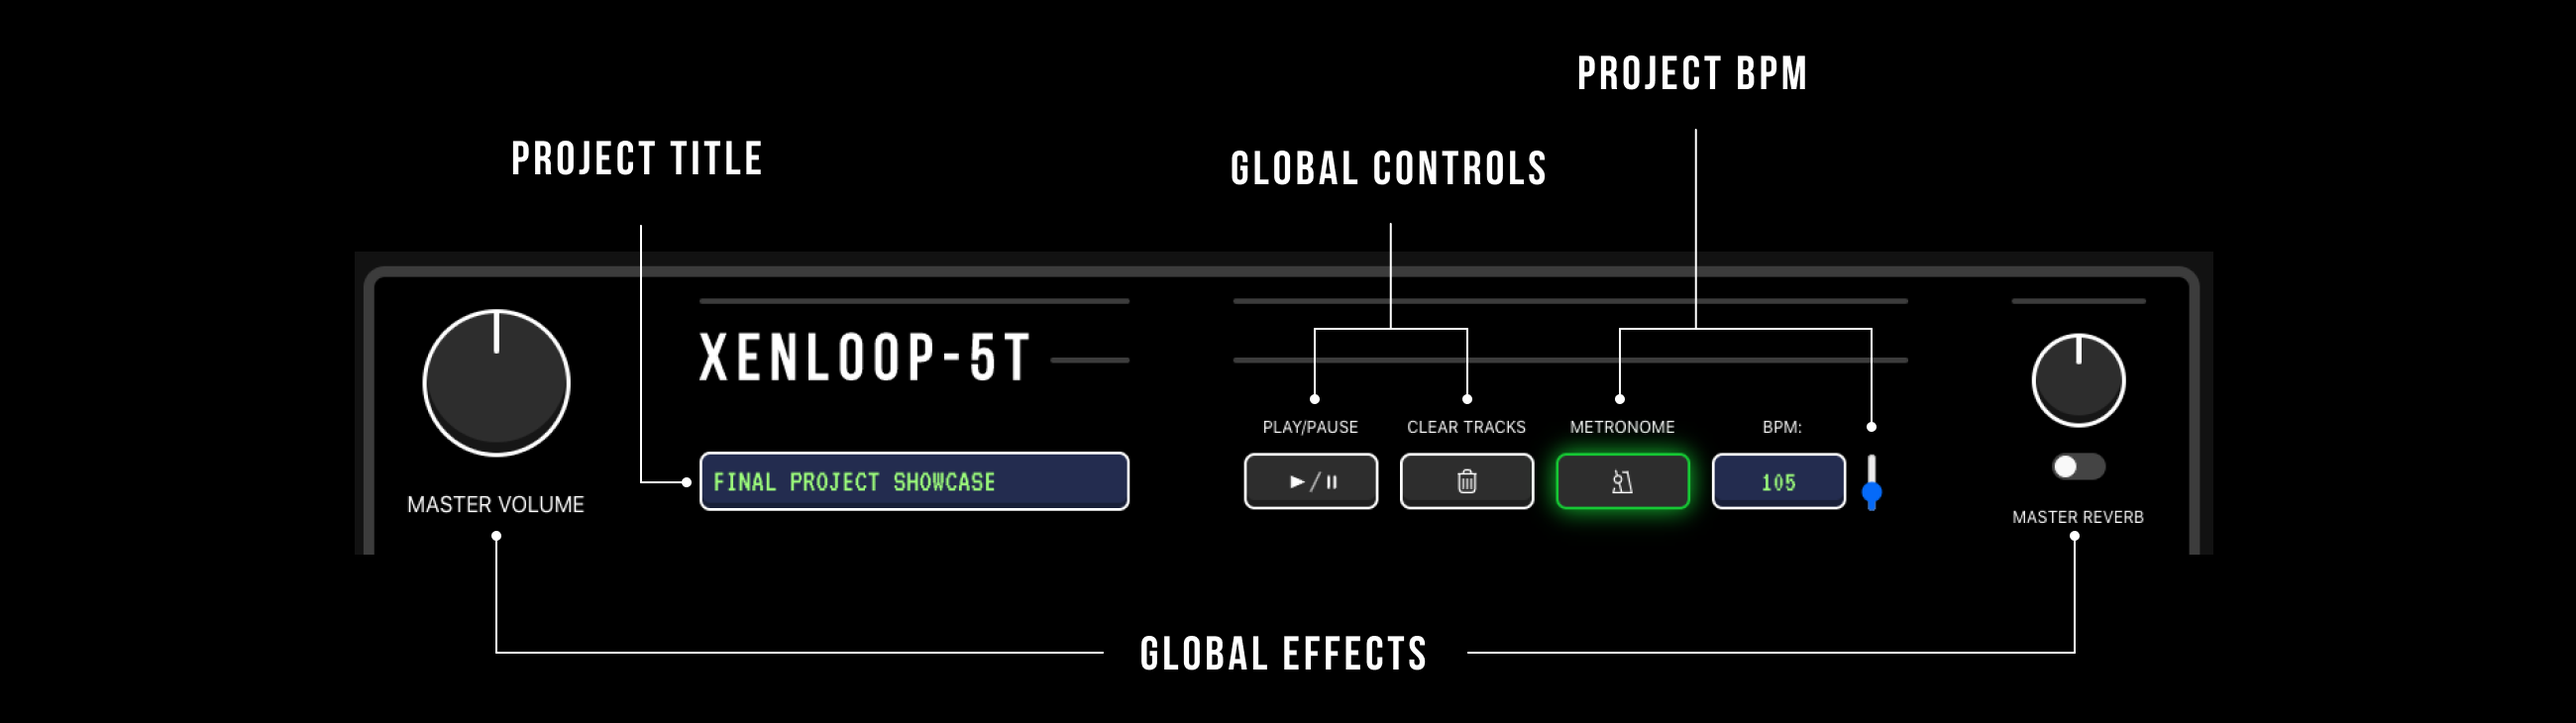
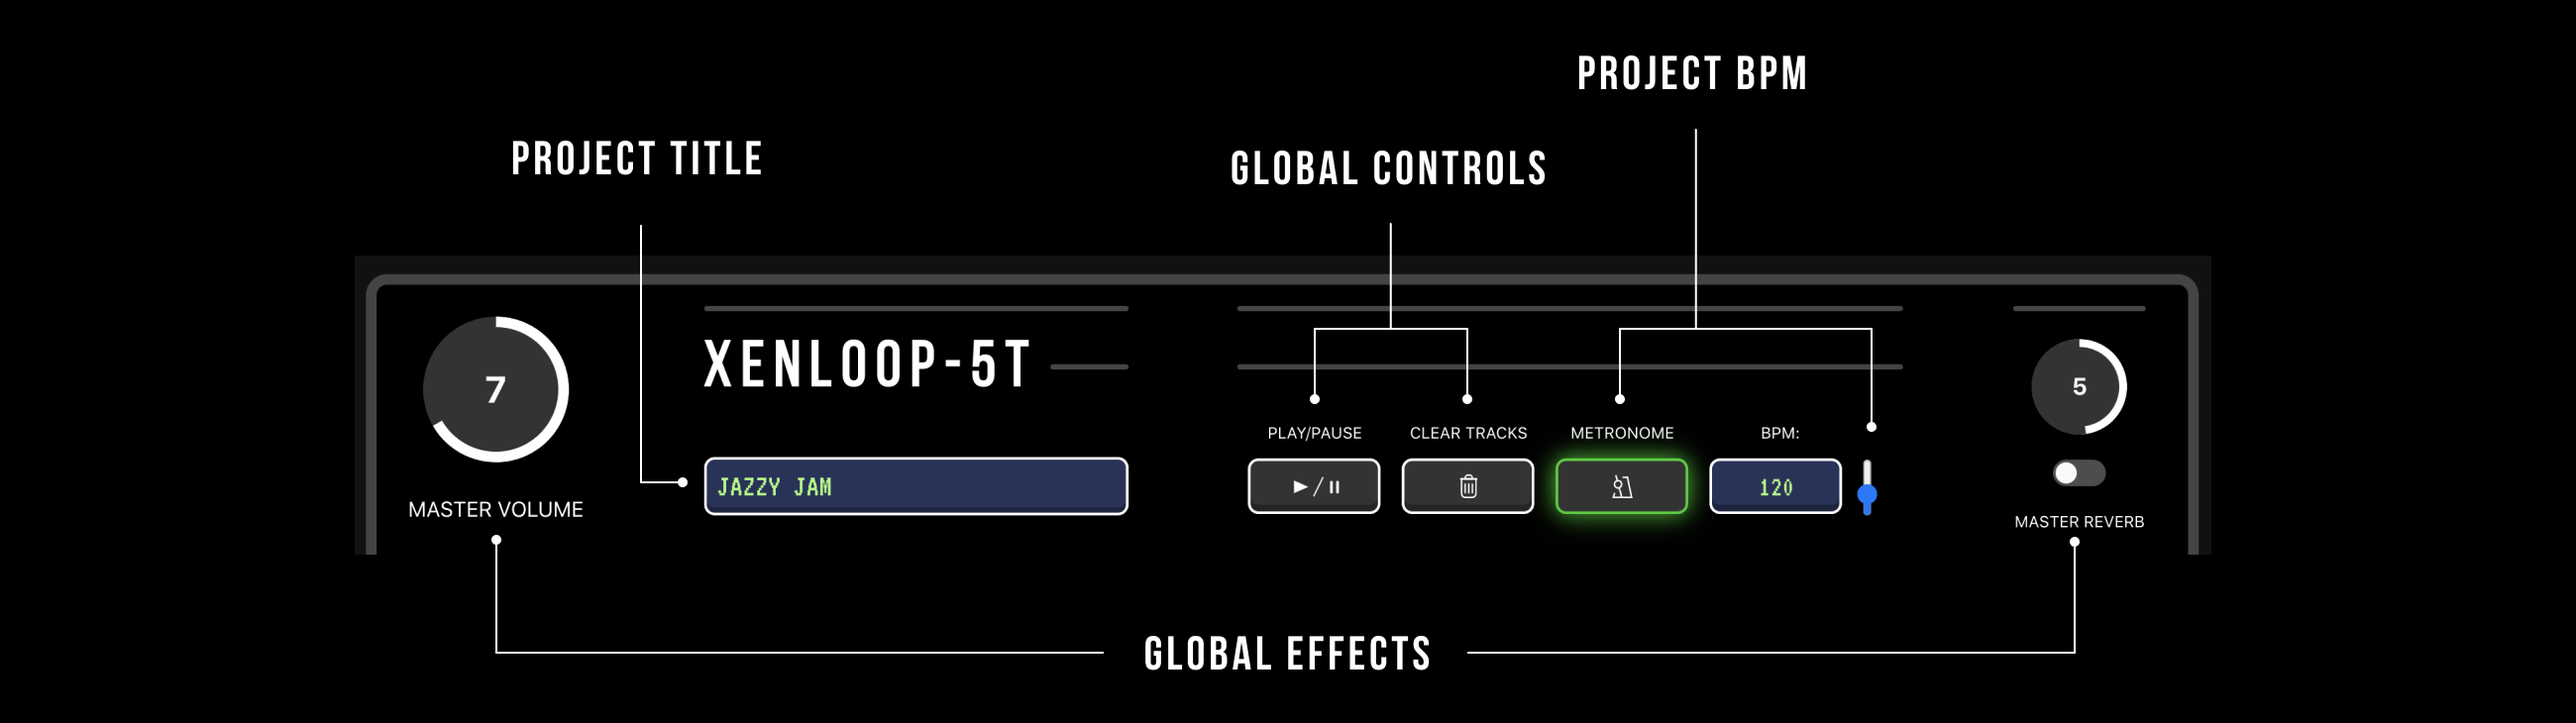
tweaks

diff --git a/frontend/src/components/xenLoop5T.js b/frontend/src/components/xenLoop5T.js
@@ -30,52 +30,68 @@ export function XenLoop5T() {
     let [ trackTime, setTrackTime ] = useState(4000)
     let [ playAllStatus, setPlayAll] = useState(false)
     let [ audioCtx, setAudioCtx ] = useState(new AudioContext)
+
+    let [ globalGain, createMainGain ] = useState(audioCtx.createGain())
+    let [ globalGainLevel, setGlobalGainLevel ] = useState(7)
+    globalGain.gain.value = globalGainLevel * 0.1
+    console.log(globalGain.gain.value)
+    globalGain.connect(audioCtx.destination)
+
+    let [ globalReverb, createGlobalReverb ] = useState(audioCtx.createConvolver())
+    console.log(globalReverb)
+    let [ globalReverbLevel, setGlobalReverbLevel ] = useState(5)
+    let [ globalReverbStatus, setGlobalReverbStatus ] = useState(false)
+
     let [ trackOneAudio, setTrackOne ] = useState(new Audio)
     let [ trackTwoAudio, setTrackTwo ] = useState(new Audio)
     let [ trackThreeAudio, setTrackThree ] = useState(new Audio)
     let [ trackFourAudio, setTrackFour] = useState(new Audio)
     let [ trackFiveAudio, setTrackFive ] = useState(new Audio)
-
+    let playTrackOne = () => {
+        trackOneAudio.connect(globalGain)
+    }
+    let pauseTrackOne = () => {
+        trackOneAudio.disconnect(globalGain)
+    }
     let playAll = () => {
         if (playAllStatus === false) {
             setPlayAll(true)
             console.log("Playing All Tracks")
             if (trackOneAudio.loop === true) {
-                trackOneAudio.connect(audioCtx.destination)
+                trackOneAudio.connect(globalGain)
                 console.log(trackOneAudio)
             }
             if (trackTwoAudio.loop === true) {
-                trackTwoAudio.connect(audioCtx.destination)
+                trackTwoAudio.connect(globalGain)
             }
             if (trackThreeAudio.loop === true) {
-                trackThreeAudio.connect(audioCtx.destination)
+                trackThreeAudio.connect(globalGain)
             }
             if (trackFourAudio.loop === true) {
-                trackFourAudio.connect(audioCtx.destination)
+                trackFourAudio.connect(globalGain)
             }
             if (trackFiveAudio.loop === true) {
-                trackFiveAudio.connect(audioCtx.destination)
+                trackFiveAudio.connect(globalGain)
             }
         } else if (playAllStatus === true) {
             setPlayAll(false)
             console.log("All Tracks Stopped")
             if (trackOneAudio.loop === true) {
-                trackOneAudio.disconnect(audioCtx.destination)
+                trackOneAudio.disconnect(globalGain)
             }
             if (trackTwoAudio.loop === true) {
-                trackTwoAudio.disconnect(audioCtx.destination)
+                trackTwoAudio.disconnect(globalGain)
             }
             if (trackThreeAudio.loop === true) {
-                trackThreeAudio.disconnect(audioCtx.destination)
+                trackThreeAudio.disconnect(globalGain)
             }
             if (trackFourAudio.loop === true) {
-                trackFourAudio.disconnect(audioCtx.destination)
+                trackFourAudio.disconnect(globalGain)
             }
             if (trackFiveAudio.loop === true) {
-                trackFiveAudio.disconnect(audioCtx.destination)
+                trackFiveAudio.disconnect(globalGain)
             }
         }
-
     }
 
     return (
@@ -86,6 +102,8 @@ export function XenLoop5T() {
                         setTrackTime={setTrackTime}
                         audioCtx={audioCtx}
                         playAll={playAll}
+                        globalGainLevel={globalGainLevel}
+                        setGlobalGainLevel={setGlobalGainLevel}
                     />
                     <Tracks 
                         tracks={fakeDatabase} 

diff --git a/frontend/src/components/mainPanel.js b/frontend/src/components/mainPanel.js
@@ -39,7 +39,7 @@ export function MainPanel(props) {
                     min={0}
                     max={10}
                     step={.5}
-                    value={gainValue}
+                    value={props.globalGainLevel}
                     theme={{
                         donutColor: 'white',
                         bgrColor: '#333333',
@@ -48,7 +48,7 @@ export function MainPanel(props) {
                         centerFocusedColor: '#333333',
                         donutThickness: 8
                     }}
-                    onValueChange={setGainValue}
+                    onValueChange={props.setGlobalGainLevel}
                     ariaLabelledBy={'my-label'}
                 />
                 <div className="master-vol-title"><p>MASTER VOLUME</p></div>

diff --git a/frontend/src/App.js b/frontend/src/App.js
@@ -5,6 +5,7 @@ import './App.css';
 import { XenLoop5T } from './components/xenLoop5T'
 import { About } from './components/about'
 import { Header } from './components/header'
+// import { Login } from './components/login'
 
 function App() {
   return (
